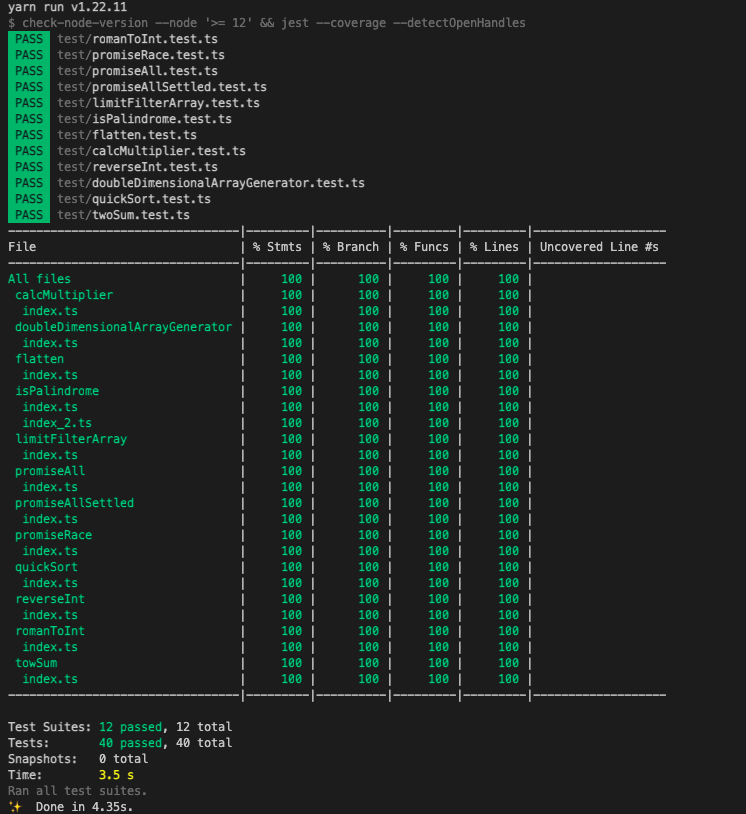
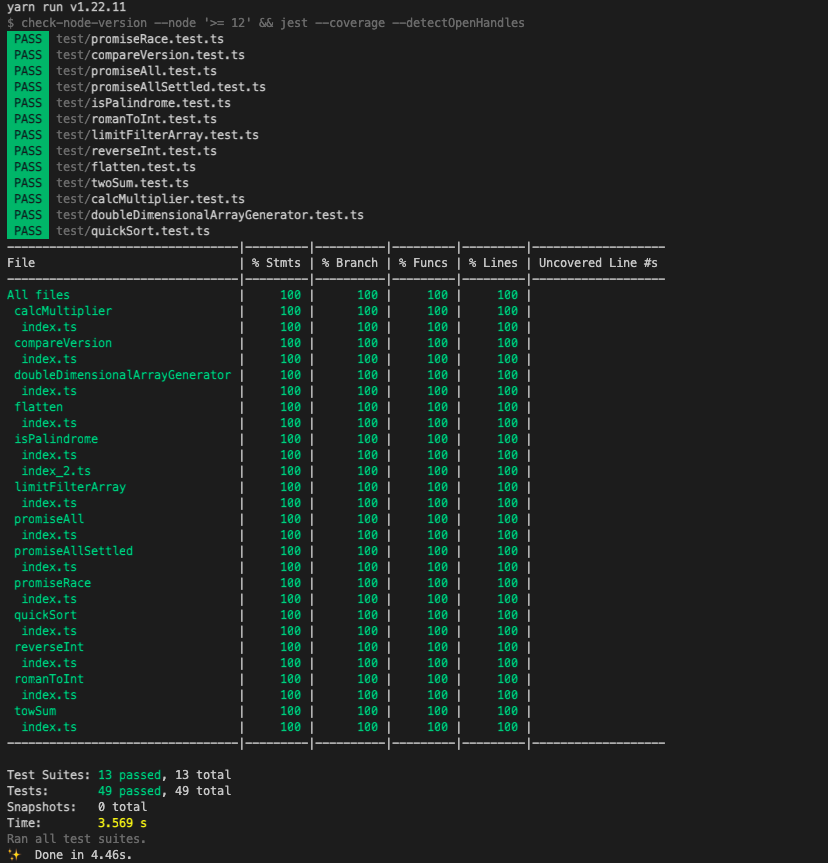
feat: add compareVersion test case

Changed region(s): [[0.0, 0.0, 0.8941, 1.0], [0.4008, 0.0, 0.7091, 0.0307]]

diff --git a/test/compareVersion.test.ts b/test/compareVersion.test.ts
@@ -1,0 +1,53 @@
+import compareVersion from '../src/compareVersion';
+
+const case_1 = compareVersion('1.2','1');
+test('1.2 > 1 => 1', () => {
+    expect(case_1).toBe(1);
+});
+
+
+const case_2 = compareVersion('1.0.0','1.0');
+test('1.0.0 === 1.0 => 0', () => {
+    expect(case_2).toBe(0);
+});
+
+
+const case_3 = compareVersion('0.0.1','1.0.0');
+test('0.0.1 === 1.0.0 => -1', () => {
+    expect(case_3).toBe(-1);
+});
+
+
+const case_4 = compareVersion('1.0.0.1','1.0.0');
+test('1.0.0.1 === 1.0.0 => 1', () => {
+    expect(case_4).toBe(1);
+});
+
+const case_5 = compareVersion('1.0.0.1.0','1.1.0');
+test('1.0.0.1.0 === 1.1.0 => -1', () => {
+    expect(case_5).toBe(-1);
+});
+
+
+const case_6 = compareVersion('1','1.2.1.1');
+test(' 1 === 1.2.1.1 => -1', () => {
+    expect(case_6).toBe(-1);
+});
+
+
+const case_7 = compareVersion('1.001.1','1.2.1.1');
+test(' 1.001.1 === 1.2.1.1 => -1', () => {
+    expect(case_7).toBe(-1);
+});
+
+
+const case_8 = compareVersion('1.003.1','1.02.1.1');
+test(' 1.003.1 === 1.02.1.1 => -1', () => {
+    expect(case_8).toBe(1);
+});
+
+
+const case_9 = compareVersion('01.000.1','02.02.1.1');
+test(' 01.000.1 === 02.02.1.1 => -1', () => {
+    expect(case_9).toBe(-1);
+});

diff --git a/src/compareVersion/index.ts b/src/compareVersion/index.ts
@@ -1,4 +1,13 @@
-function compareVersion(version1: string, version2: string): number {
+/**
+ * author: pace_zhong@foxmail.com
+ * 版本号对比
+ *
+ * @export
+ * @param {string} version1
+ * @param {string} version2
+ * @return {*}  {number}
+ */
+export default function compareVersion(version1: string, version2: string) {
   const verArr1 = version1.split('.');
   const verArr2 = version2.split('.');
 
